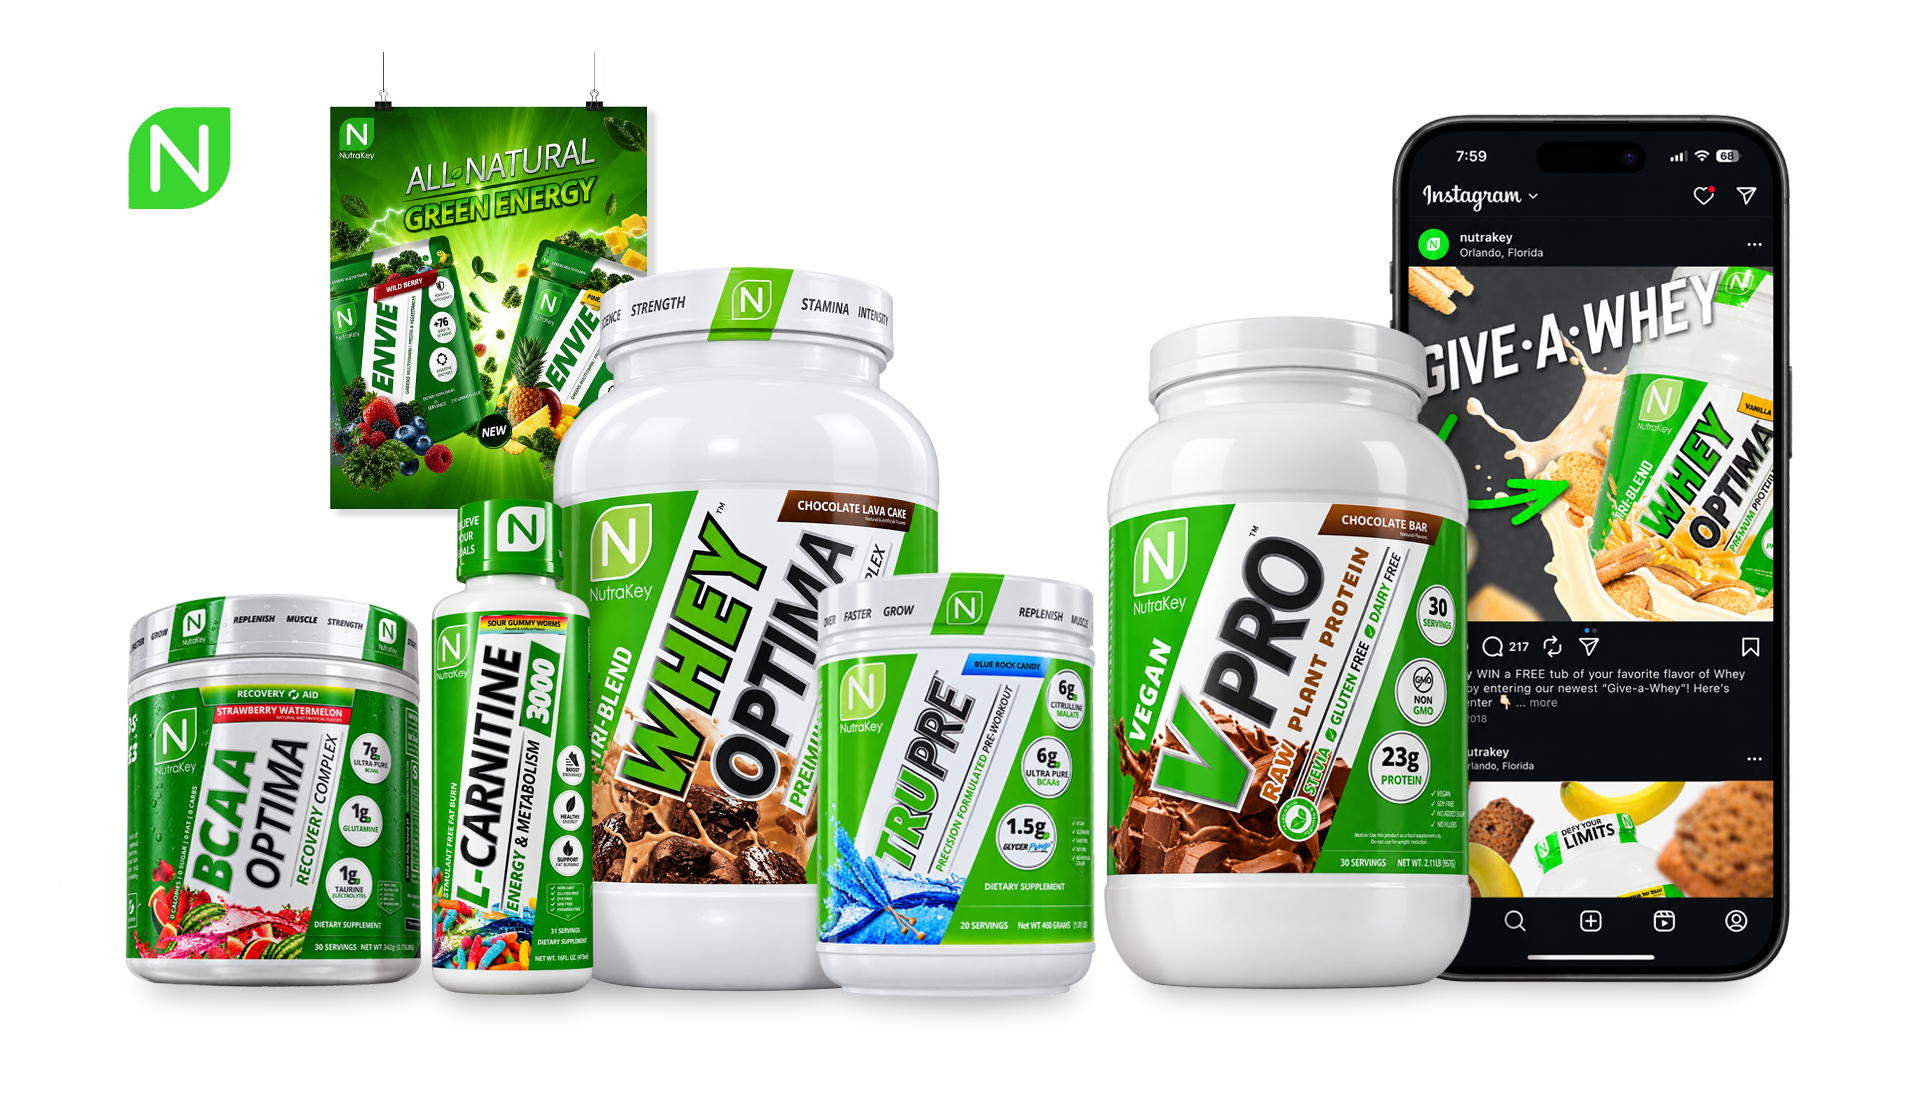
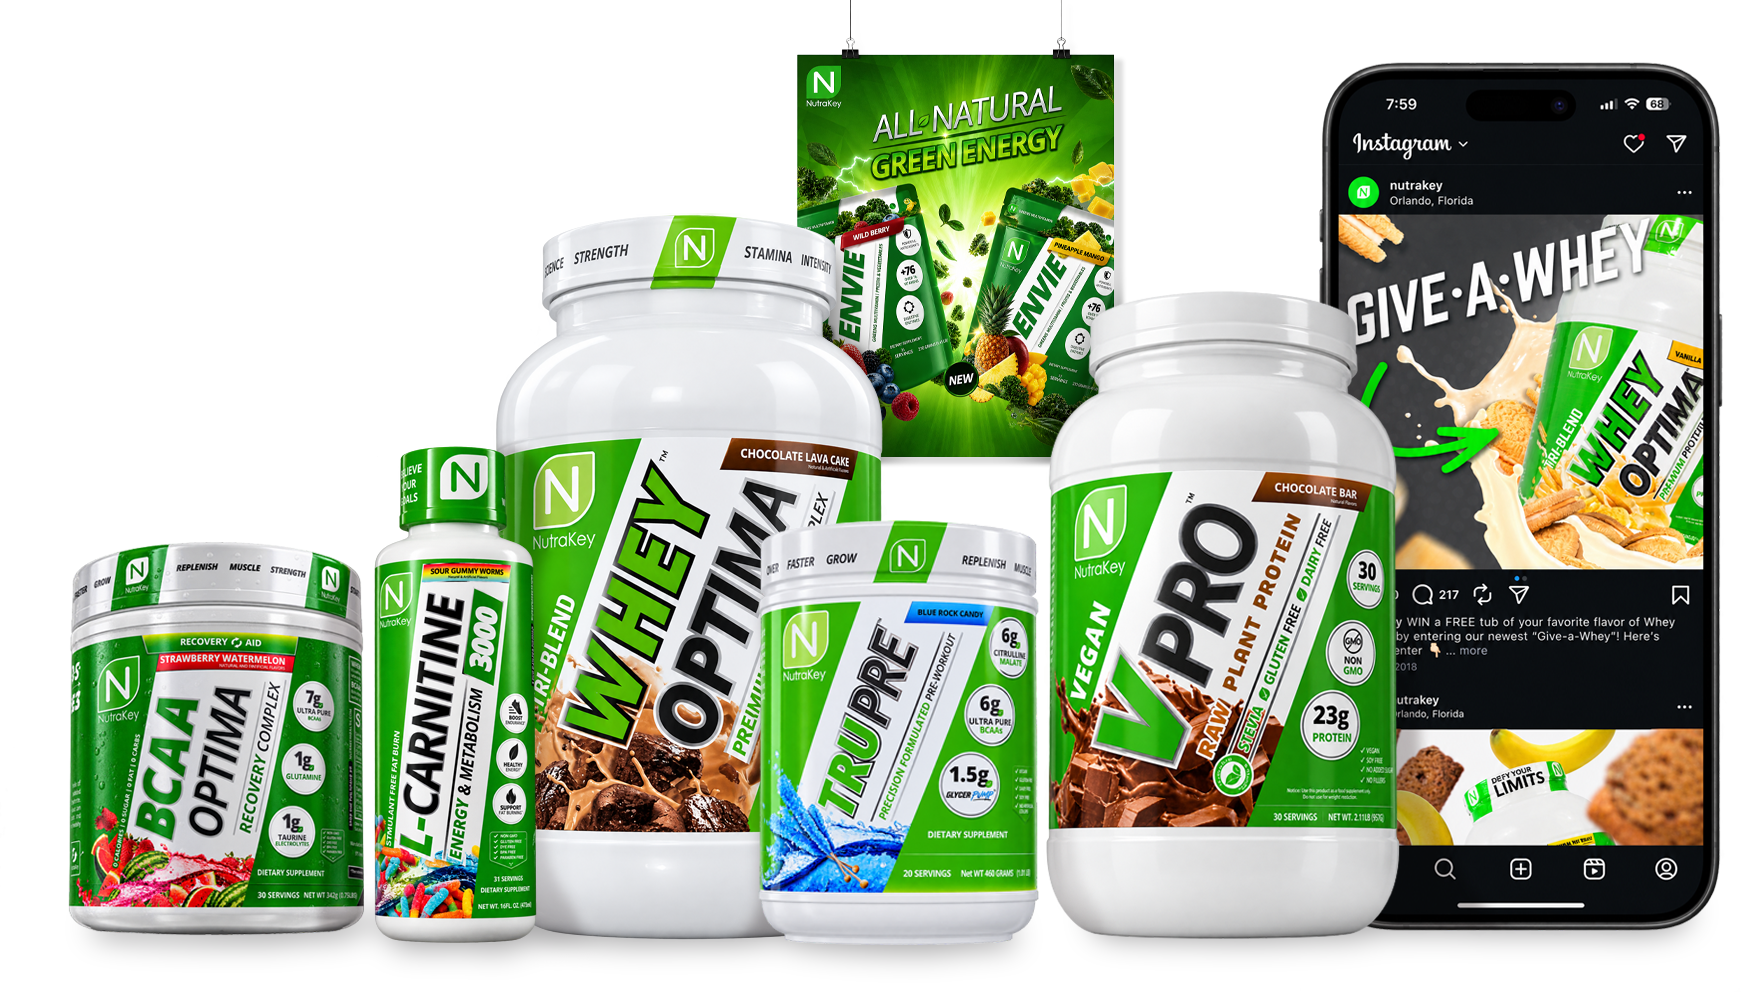
NutraKey: scroll-parallax product collage, replace stack image, fix dead-space gap on mobile/tablet
- right-side collage is now a windowed element with the taller replacement
  image scroll-parallaxing into view (top to bottom) as the panel settles
  into place - passive scroll listener, not a wheel/touch hijack
- window grown taller so Envie stays visible longer before scrolling out,
  matching the updated source image
- second panel's product-lineup image replaced with the new stack shot
- #nutrakey-work (and the same latent bug on repp-sports-work/nutrex-work)
  had a leftover empty .stage div that still rendered its full nav-clearance
  padding on mobile/tablet, sitting above the image and reading as a huge
  gap before the next panel - removed all three (unused, nothing else reads
  them)
- #nutrakey-work .pj-bg now crops to a fixed aspect-ratio on mobile/tablet
  (tighter on phone than tablet) instead of showing full natural aspect
  with whatever gap that left around it

diff --git a/web/index.html b/web/index.html
@@ -302,13 +302,16 @@
        to the panel itself, not the design-pixel stage, so it always fills the
        panel edge-to-edge with no gap at any window shape. Text stays on the
        untouched, already-verified width-fit .stage. See project.css. -->
+  <!-- The right-side artwork is no longer a full-bleed composite for this
+       panel: it's its own windowed element (.pj-window, sized to the PSD's
+       original 1192x1080 right-hand box) with a taller image inside that
+       scroll-parallaxes into view — see scripts/parallax.js. Left side
+       stays plain panel background (white), same as it was inside the old
+       flat composite. -->
   <section class="panel panel--project" id="nutrakey"
-           style="--ar:0.562500" aria-label="NutraKey Health">
+           style="--ar:0.651042" aria-label="NutraKey Health">
     <div class="panel__inner">
-      <img class="pj-bg" src="assets/img/work/nutrakey-a.webp"
-           alt="NutraKey supplement packaging — Envié, Fish Oil, MCT Oil and Optima"
-           width="1920" height="1080" loading="lazy" decoding="async">
-      <div class="stage" style="--stage-h:1080">
+      <div class="stage" style="--stage-h:1250">
         <p class="pj-num"   style="--x:112; --y:172.4">01</p>
         <h2 class="pj-title" style="--y:755">NutraKey Health</h2>
         <!-- TODO(artboard-4): copy is not final; holding the layout. -->
@@ -316,17 +319,21 @@
           <p>I’m aarondotjpeg, a multidisciplinary creative working across graphic design, branding, art direction, illustration, and digital experiences. I move between disciplines freely, using whatever medium best brings an idea to life.</p>
           <p>Born in New York and now based in Florida, my creative path has taken me across the country, shaped by different people, places, and experiences along the way. Drawing, photography, and design have always been interconnected parts of how I create, eventually growing into a broader practice that includes branding, digital experiences, and creative direction.</p>
         </div>
+        <div class="pj-window" style="--x:728; --y:0; --w:1192; --h:1250">
+          <img class="pj-parallax" src="assets/img/work/nutrakey-a-right.webp"
+               alt="NutraKey supplement collage — Envié, Fish Oil, MCT Oil and Z Optima"
+               width="1161" height="1660" loading="lazy" decoding="async">
+        </div>
       </div>
     </div>
   </section>
 
   <section class="panel panel--project" id="nutrakey-work"
-           style="--ar:0.583333" aria-label="NutraKey Health, continued">
+           style="--ar:0.569792" aria-label="NutraKey Health, continued">
     <div class="panel__inner">
       <img class="pj-bg" src="assets/img/work/nutrakey-b.webp"
-           alt="NutraKey product range and social campaign — BCAA, L-Carnitine, Whey Optima, TruPre and V Pro"
-           width="1920" height="1120" loading="lazy" decoding="async">
-      <div class="stage" style="--stage-h:1120"></div>
+           alt="NutraKey product range and social campaign — BCAA Optima, L-Carnitine, Whey Optima, TruPre and V Pro"
+           width="1741" height="992" loading="lazy" decoding="async">
     </div>
   </section>
 
@@ -354,7 +361,6 @@
       <img class="pj-bg" src="assets/img/work/repp-b.webp"
          alt="Repp Sports product range"
          width="1920" height="1196" loading="lazy" decoding="async">
-      <div class="stage" style="--stage-h:1196"></div>
     </div>
   </section>
 
@@ -382,7 +388,6 @@
       <img class="pj-bg" src="assets/img/work/nutrex-b.webp"
          alt="Nutrex Research product range"
          width="1920" height="1155" loading="lazy" decoding="async">
-      <div class="stage" style="--stage-h:1155"></div>
     </div>
   </section>
 
@@ -475,5 +480,6 @@
 <script src="scripts/works.js"></script>
 <script src="scripts/typewriter.js"></script>
 <script src="scripts/marquee.js"></script>
+<script src="scripts/parallax.js"></script>
 </body>
 </html>

diff --git a/web/styles/project.css b/web/styles/project.css
@@ -53,6 +53,27 @@
     object-fit: fill;
   }
 
+  /* .pj-window — a fixed-size viewport onto artwork taller than the box it
+     sits in (NutraKey's right-hand collage). Stays in the .stage
+     coordinate space like .pj-art; the taller image inside scrolls into
+     view as the panel transits the viewport — see scripts/parallax.js. */
+  .pj-window {
+    position: absolute;
+    left: calc(var(--x) * var(--u));
+    top:  calc(var(--y) * var(--u));
+    width:  calc(var(--w) * var(--u));
+    height: calc(var(--h) * var(--u));
+    overflow: hidden;
+  }
+  .pj-parallax {
+    display: block;
+    position: absolute;
+    top: 0;
+    left: 0;
+    width: 100%;
+    height: auto;
+  }
+
   .pj-num,
   .pj-title,
   .pj-bio {
@@ -187,6 +208,47 @@
       object-fit: contain;
     }
 
+    /* NutraKey's second panel is nothing but this image (no text sharing
+       the flow), so the generic "full natural aspect, no crop" rule above
+       just leaves visible gap around it wherever the panel's own height
+       doesn't match the image exactly. Covering a shorter aspect-ratio box
+       instead crops in and fills the panel with no gap possible — tighter
+       again on phones than tablets, per the request. */
+    #nutrakey-work .pj-bg {
+      height: auto;
+      aspect-ratio: 3 / 2;
+      object-fit: cover;
+    }
+
+    /* #nutrakey's --ar is tuned for the desktop-only parallax window (see
+       scripts/parallax.js), which needs real extra height to have room to
+       reveal. Mobile/tablet don't run that effect — the artwork rejoins
+       normal flow at its natural width above — so keeping that inflated
+       --ar just padded the panel out with empty space above/below the
+       (much shorter) stacked content, reading as a huge gap before the
+       next panel. Auto lets it size to its actual content again. */
+    #nutrakey { min-height: auto; }
+
+    /* The desktop parallax window doesn't fit a stacked mobile layout — no
+       room to scroll-reveal a tall image inside a fixed box, and
+       scripts/parallax.js already skips applying its transform below
+       1024px. This rejoins the artwork to the flow at full width instead,
+       same as .pj-art/.pj-bg above; !important beats the inline transform
+       parallax.js may have already set before the viewport narrowed. */
+    .panel--project .pj-window {
+      order: 1;
+      position: static;
+      overflow: visible;
+      width: 100%;
+      height: auto;
+    }
+    .panel--project .pj-parallax {
+      position: static;
+      width: 100%;
+      height: auto;
+      transform: none !important;
+    }
+
     .panel--project .stage {
       height: auto;
       display: flex;
@@ -246,5 +308,10 @@
     }
     .pj-bio p + p { margin-block-start: 1.45em; }
 
+  }
+
+  /* Phone only: crop in further than the tablet aspect-ratio above. */
+  @media (max-width: 767px) {
+    #nutrakey-work .pj-bg { aspect-ratio: 4 / 3; }
   }
 }

diff --git a/web/scripts/parallax.js b/web/scripts/parallax.js
@@ -1,0 +1,59 @@
+/* ===========================================================================
+   ARTWORK WINDOW PARALLAX
+   .pj-window is a fixed-size box (NutraKey's right-hand collage, 1192x1080
+   in the PSD); the image inside it is taller than that box. As the panel
+   scrolls up through the viewport, the image translates upward inside its
+   window — image top visible when the panel is just entering, image bottom
+   visible once the panel has fully reached the top of the viewport — so the
+   whole picture reveals itself before the next panel arrives.
+
+   Desktop only: below 1024px the artwork rejoins normal flow at full width
+   (see project.css), so there's nothing to drive.
+   =========================================================================== */
+(function () {
+  'use strict';
+
+  var windows = Array.prototype.slice.call(document.querySelectorAll('.pj-window'));
+  if (!windows.length) return;
+
+  var reduce = window.matchMedia('(prefers-reduced-motion: reduce)').matches;
+  var desktop = window.matchMedia('(min-width: 1024px)');
+
+  function clamp(v, min, max) {
+    return Math.max(min, Math.min(max, v));
+  }
+
+  function update() {
+    if (reduce || !desktop.matches) {
+      windows.forEach(function (win) {
+        var img = win.querySelector('.pj-parallax');
+        if (img) img.style.transform = '';
+      });
+      return;
+    }
+
+    var vh = window.innerHeight;
+
+    windows.forEach(function (win) {
+      var img = win.querySelector('.pj-parallax');
+      var panel = win.closest('.panel');
+      if (!img || !panel) return;
+
+      var panelTop = panel.getBoundingClientRect().top;
+      /* 0 when the panel's top is at the viewport's bottom edge (just
+         entering), 1 once the panel's top reaches the viewport's top edge
+         (fully landed) — matches how a nav click or natural scroll lands
+         a panel, so the reveal completes exactly as the panel settles
+         into view rather than continuing to drift during the scroll-past. */
+      var progress = clamp((vh - panelTop) / vh, 0, 1);
+
+      var overshoot = Math.max(0, img.offsetHeight - win.getBoundingClientRect().height);
+      img.style.transform = 'translateY(' + (-progress * overshoot) + 'px)';
+    });
+  }
+
+  window.addEventListener('scroll', update, { passive: true });
+  window.addEventListener('resize', update, { passive: true });
+  window.addEventListener('load', update);
+  update();
+})();
